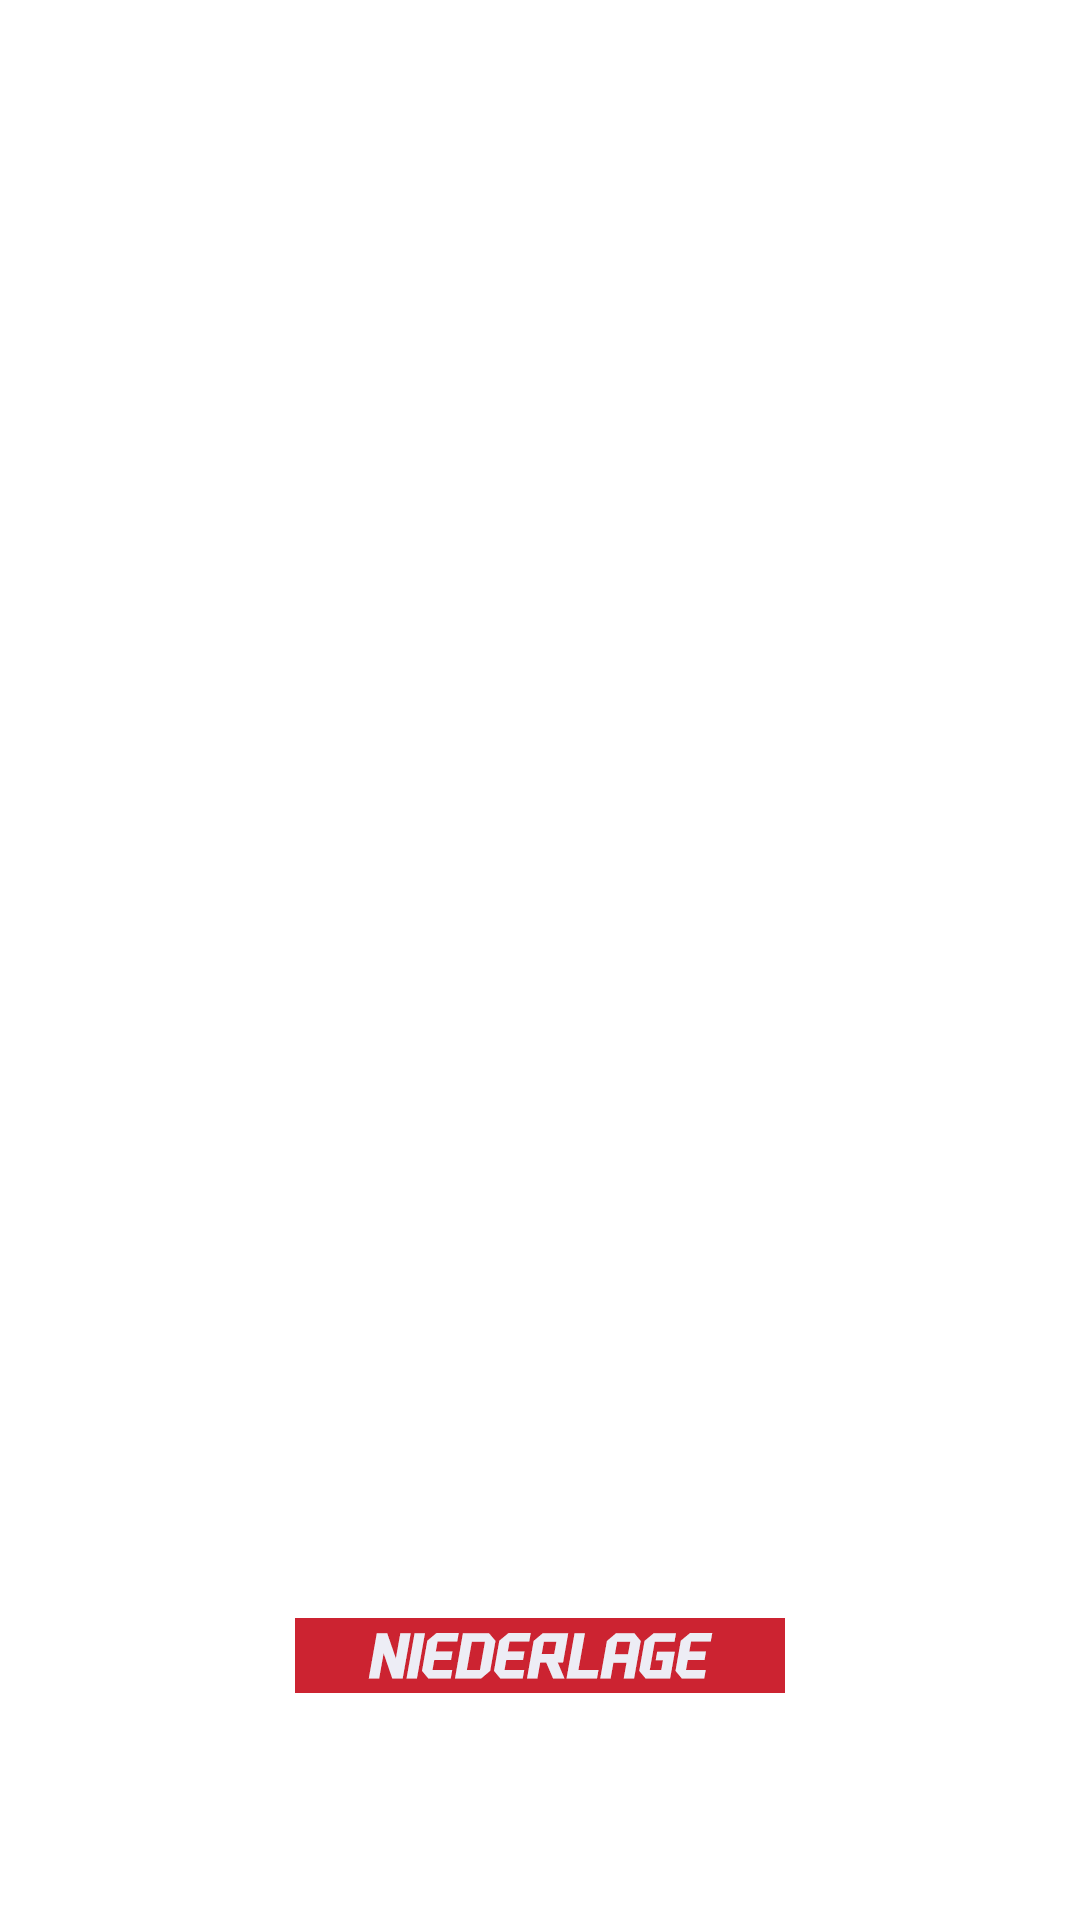
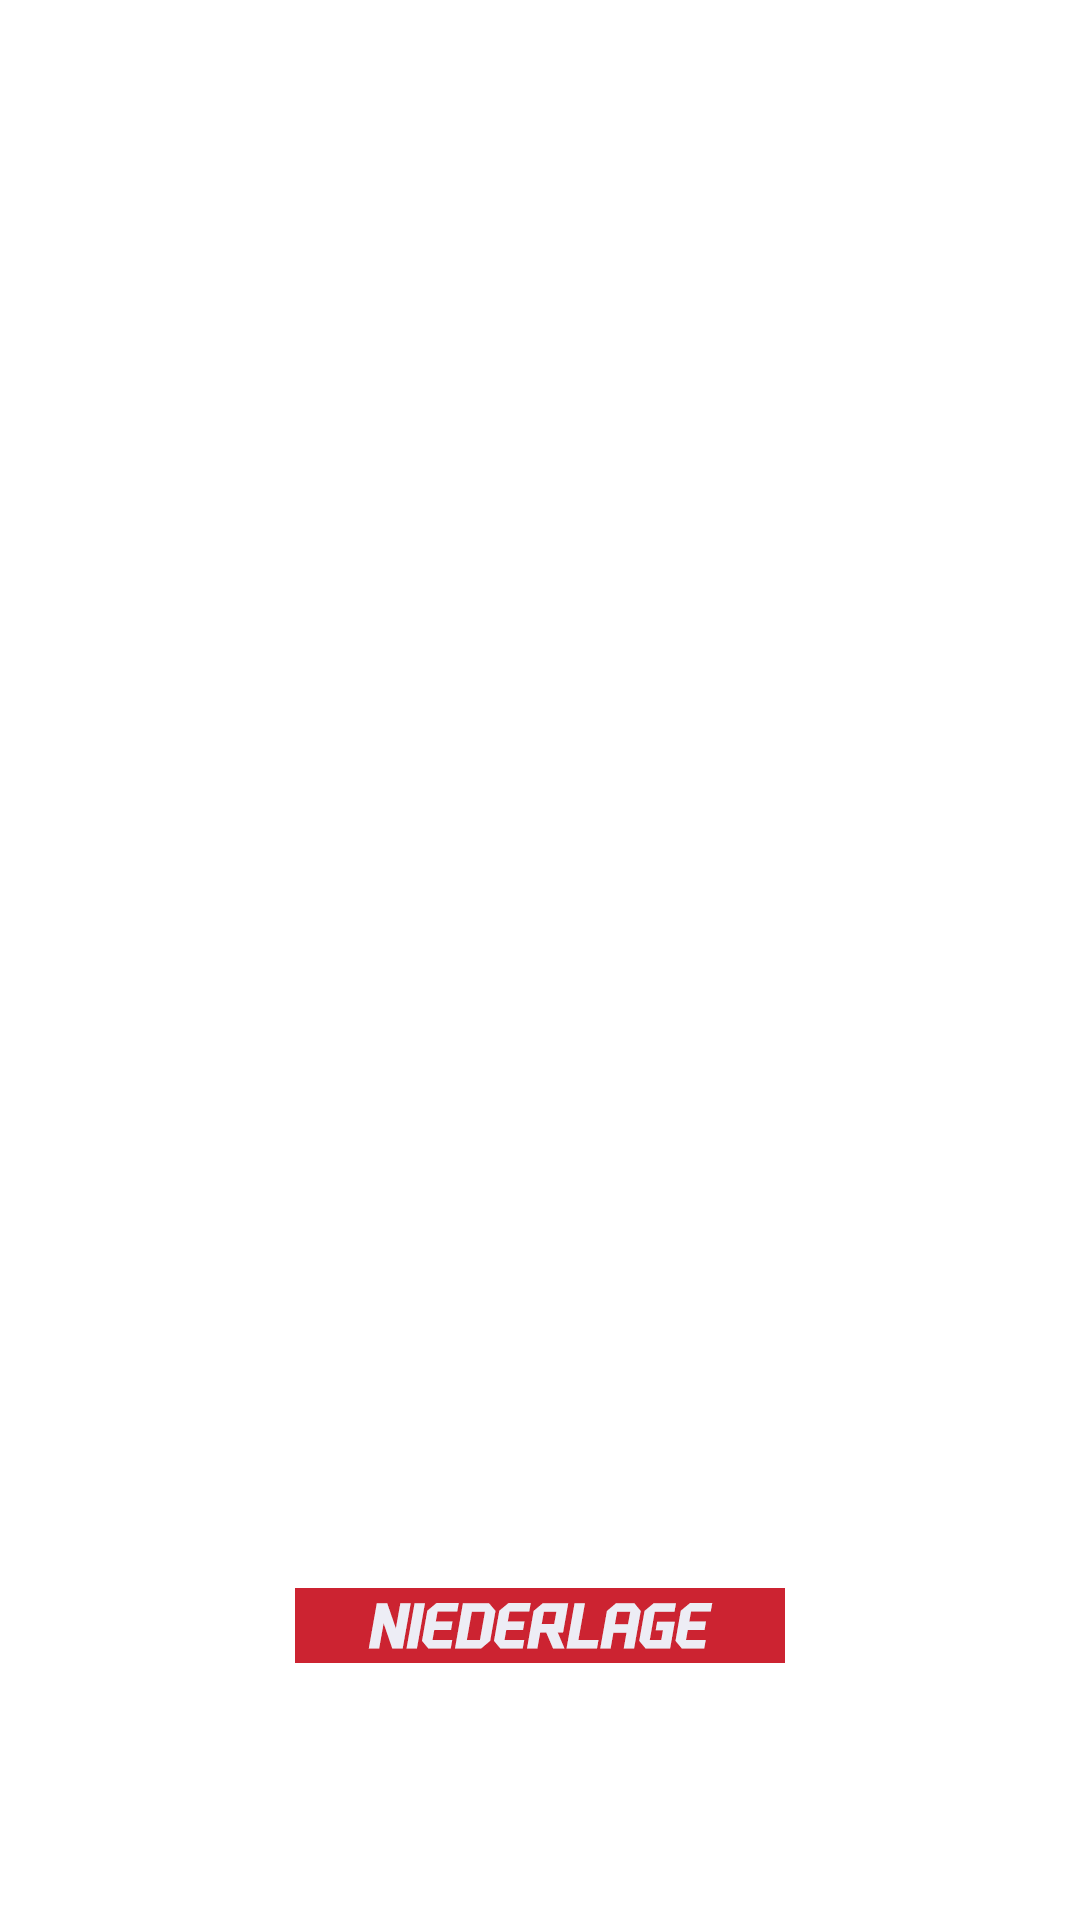
passende positionen

Changed region(s): [[0.275, 0.8125, 0.7333, 0.9062]]

diff --git a/league.js b/league.js
@@ -42,43 +42,43 @@ const RESULT_STORY = {
  */
 const RESULT_STORY_LAYOUT = {
   matchday: {
-    x: 330,
-    y: 190,
-    fontSize: 38,
-    colorA: "#e82638",
-    colorB: "#d7d7dc",
+    x: 174,
+    y: 207,
+    fontSize: 35,
+    colorA: "#cc2331",
+    colorB: "#ededf5",
     align: "center",
   },
 
   logos: {
-    home: { x: 270, y: 1390, size: 145 },
-    away: { x: 835, y: 1390, size: 145 },
+    home: { x: 217, y: 1399, size: 160 },
+    away: { x: 855, y: 1399, size: 160 },
   },
 
   scores: {
-    homeX: 470,
-    awayX: 650,
-    colonX: 560,
+    homeX: 410,
+    awayX: 630,
+    colonX: 530,
     y: 1468,
-    fontSize: 132,
-    colonFontSize: 104,
+    fontSize: 200,
+    colonFontSize: 0,
     color: "#f3f3f5",
     colonColor: "#e31b2f",
   },
 
   teamNames: {
-    homeX: 270,
-    awayX: 835,
+    homeX: 217,
+    awayX: 855,
     y: 1562,
-    maxWidth: 450,
-    fontSize: 45,
+    maxWidth: 440,
+    fontSize: 40,
     minFontSize: 25,
     color: "#f3f3f5",
   },
 
   date: {
     x: 540,
-    y: 1880,
+    y: 1900,
     fontSize: 30,
     color: "#7a7a82",
   },
@@ -89,10 +89,10 @@ const RESULT_STORY_LAYOUT = {
     valueColorTop: "#ffffff",
     valueColorBottom: "#ffffff",
     slots: [
-      { key: "top-left", row: "top", col: 0, x: 470, y: 1717 },
-      { key: "top-right", row: "top", col: 1, x: 980, y: 1717 },
-      { key: "bottom-left", row: "bottom", col: 0, x: 470, y: 1803 },
-      { key: "bottom-right", row: "bottom", col: 1, x: 980, y: 1803 },
+      { key: "top-left", row: "top", col: 0, x: 505, y: 1737 },
+      { key: "top-right", row: "top", col: 1, x: 1025, y: 1737 },
+      { key: "bottom-left", row: "bottom", col: 0, x: 505, y: 1808 },
+      { key: "bottom-right", row: "bottom", col: 1, x: 1025, y: 1808 },
     ],
   },
 };
